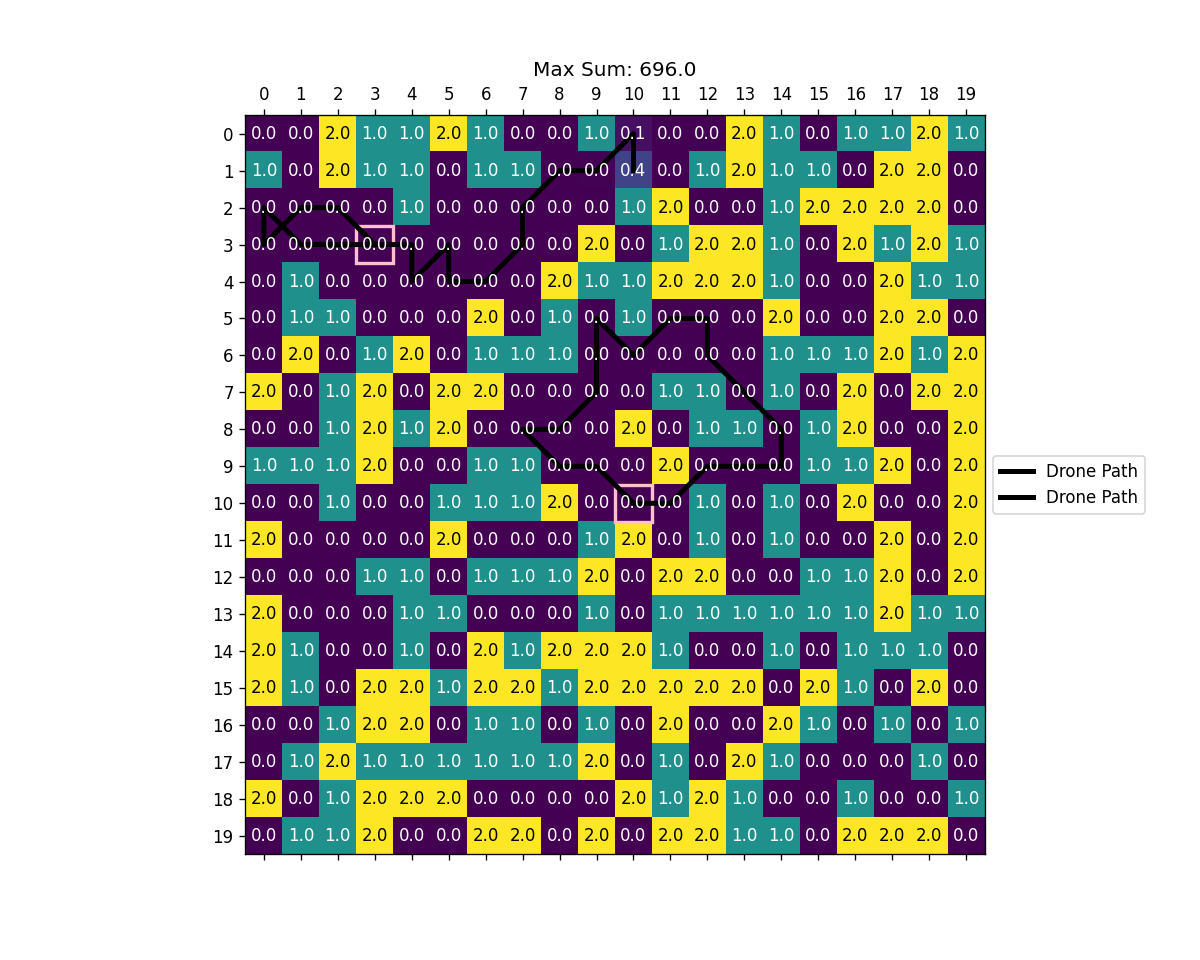
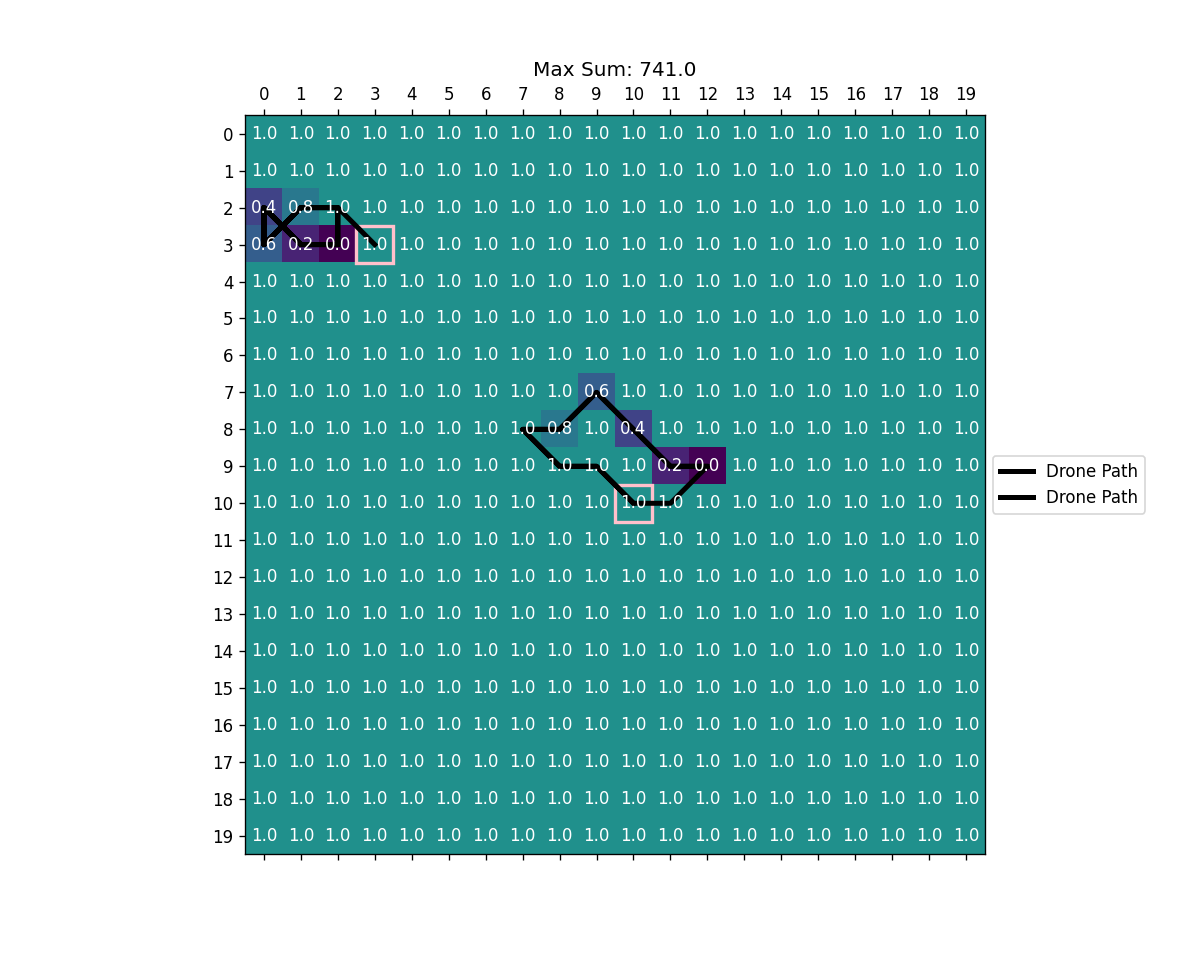
algo|multiplier grids are updated after steps were taken

diff --git a/src/algorithms/findpath_swarm_circular.py b/src/algorithms/findpath_swarm_circular.py
@@ -134,10 +134,11 @@ class FindPathSwarm(FindPathGreedyTwoLayers):
                 tmp = 1.1
                 for idronegrid in self.dronegrid_properties:
                     tmp = min(idronegrid.grid.grid_multiplier[index_row, index_col], tmp)
+                    idronegrid.grid.grid_multiplier[index_row, index_col] = tmp
                 
                 # all matrices get the minimum multiplier value
-                for dronegrid_index in range(len(self.dronegrid_properties)):
-                    self.dronegrid_properties[dronegrid_index].grid.grid_multiplier[index_row, index_col] = tmp
+                # for dronegrid_index in range(len(self.dronegrid_properties)):
+                #     self.dronegrid_properties[dronegrid_index].grid.grid_multiplier[index_row, index_col] = tmp
 
 class FindPathSwarmGif(FindPathSwarm):
     def _swarm_policy(self, total_time)->None:
@@ -154,7 +155,6 @@ class FindPathSwarmGif(FindPathSwarm):
             dronegriddict['grid_t'+str(-1)] = self.dronegrid_properties[0].grid.grid_multiplier.flatten().tolist()
             for timestep in range(total_time):
                 for drone_index, dronegrid in enumerate(self.dronegrid_properties):
-                    self._sync_grids()
                     radius_index = self.circle_drone_index[drone_index]
 
                     drone_in_section, direction = dronegrid.drone_direction(radii=radii, radius_index=radius_index)
@@ -185,7 +185,8 @@ class FindPathSwarmGif(FindPathSwarm):
                             assert ValueError
                             print('ERROR: Direction not given!')
                         self.dronegrid_properties[drone_index] = self._update_dronegridinfo(pathvalues=pathvalues, drone=dronegrid, timestep=timestep)
-                        
+                    self._sync_grids()
+
                 # === Save grid info for each drone at each timestep ===
                 dronegriddict['grid_t'+str(timestep)] = dronegrid.grid.grid_multiplier.flatten().tolist()
             

diff --git a/src/utils/gifs_swarm.py b/src/utils/gifs_swarm.py
@@ -74,7 +74,7 @@ if __name__=='__main__':
     for timestep in range(total_time):
         
         grid = GridInfo(name='TestGrid',
-                        gridshape=np.multiply(grid.gridshape, grids[timestep]),
+                        gridshape=grids[timestep],#np.multiply(grid.gridshape, grids[timestep]),
                         reset_time=reset_time)
 
         fig, ax = plotgrid(grid=grid)
